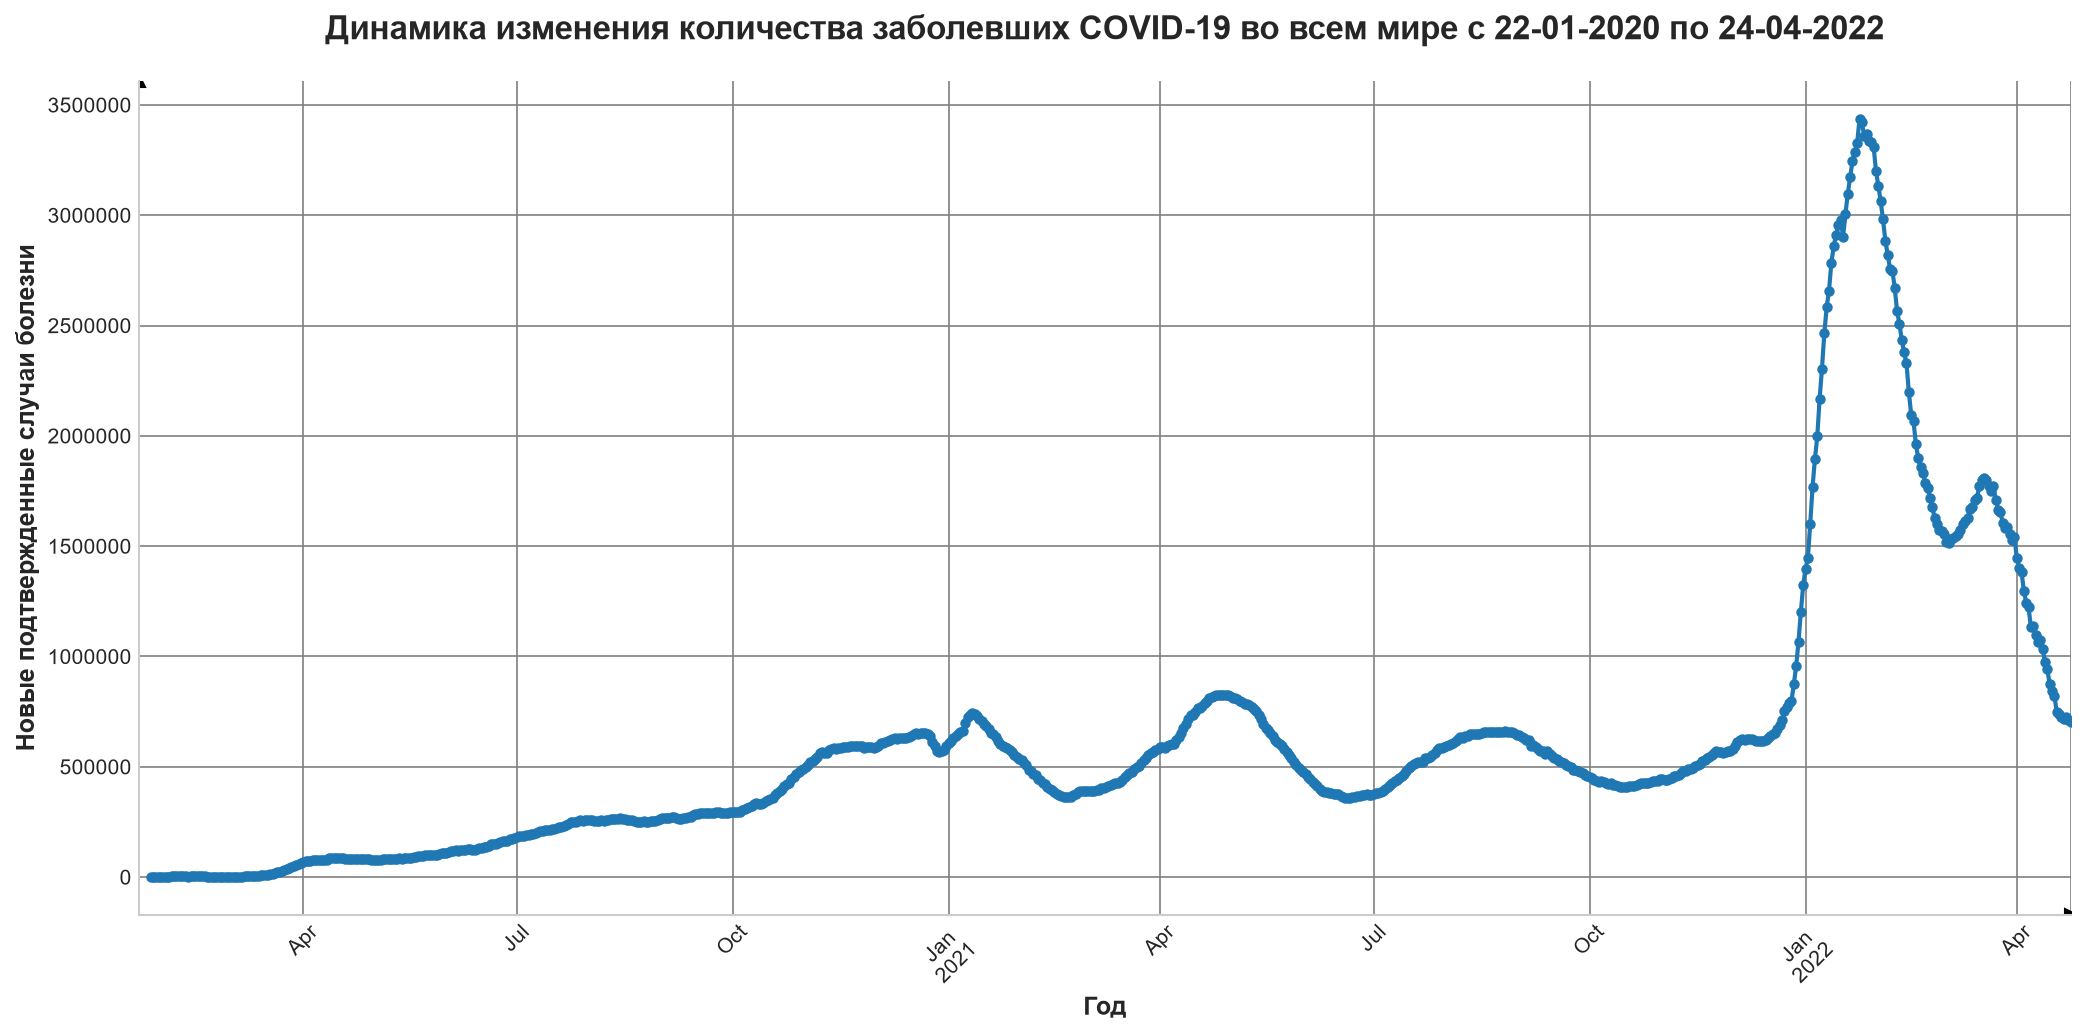
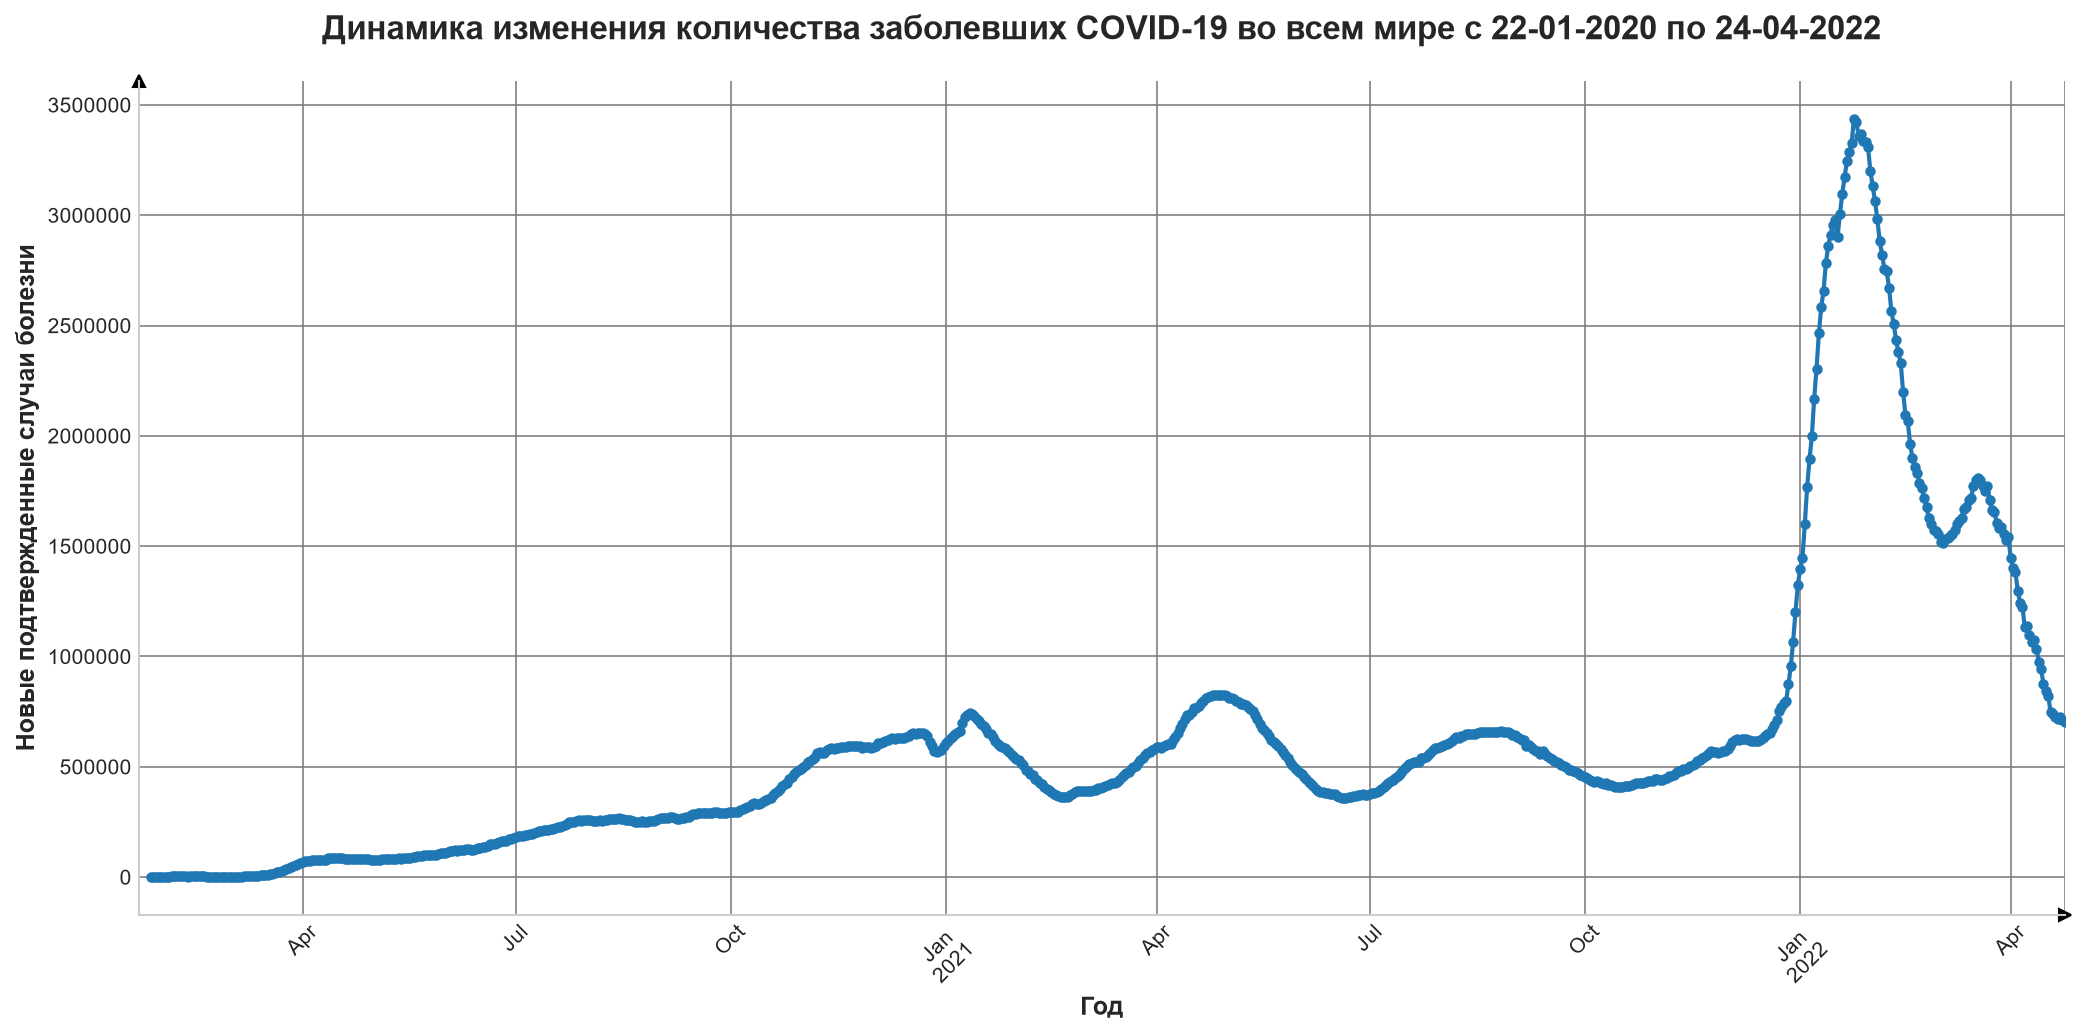
fix: path to data

diff --git a/task_1/task_1.py b/task_1/task_1.py
@@ -61,7 +61,7 @@ def get_linear_graph(df: pd.DataFrame):
     ax.plot(0, 1, '^k', transform=ax.transAxes, clip_on=False)
 
     plt.tight_layout()
-    plt.savefig(f'data/all_time_period_world_linear_chart.png', dpi=150, bbox_inches='tight')
+    plt.savefig(f'task_1/data/all_time_period_world_linear_chart.png', dpi=150, bbox_inches='tight')
     plt.show()
 
 def get_pie_chart_data(df: pd.DataFrame):
@@ -90,7 +90,7 @@ def get_pie_chart(df: pd.DataFrame):
     plt.title(f"Доля заболевших на каждом континенте за все время", fontweight="bold")
     plt.legend(title="Континенты", loc="center left", bbox_to_anchor=(1, 0, 0.5, 1))
     plt.tight_layout()
-    plt.savefig(f'data/all_time_continents_pie_chart.png', dpi=150, bbox_inches='tight')
+    plt.savefig(f'task_1/data/all_time_continents_pie_chart.png', dpi=150, bbox_inches='tight')
     plt.show()
 
 def get_bar_chart_data(df: pd.DataFrame):
@@ -146,7 +146,7 @@ def get_bar_chart(df: pd.DataFrame):
     plt.xticks(rotation=45, ha="right")
     plt.bar_label(bars, padding=3, fmt="%.0f")
     plt.tight_layout()
-    plt.savefig(f'data/top_15_countries_all_time_bar_chart.png', dpi=150, bbox_inches='tight')
+    plt.savefig(f'task_1/data/top_15_countries_all_time_bar_chart.png', dpi=150, bbox_inches='tight')
     plt.show()
 
 def get_violin_plot_data(df: pd.DataFrame):
@@ -161,7 +161,7 @@ def get_violin_plot(df: pd.DataFrame):
     sns.violinplot(data=df, x="Continent", y="log_daily", inner="quartile")
     plt.ylabel("log10(ежедневные случаи + 1)")
     plt.title("Распределение заболеваемости по континентам (логарифмическая шкала)")
-    plt.savefig(f'data/daily_data_continents_violin_plot.png', dpi=150, bbox_inches='tight')
+    plt.savefig(f'task_1/data/daily_data_continents_violin_plot.png', dpi=150, bbox_inches='tight')
     plt.show()
 
 def get_bad_data(df: pd.DataFrame):
@@ -318,7 +318,7 @@ def get_linear_compare(df_valid: pd.DataFrame, df_avg: pd.DataFrame, df_median: 
     ax.yaxis.set_major_formatter(plt.FormatStrFormatter("%.2f"))
     
     plt.tight_layout()
-    plt.savefig(f'data/compare_filling_missed_data_linear_chart.png', dpi=150, bbox_inches='tight')
+    plt.savefig(f'task_1/data/compare_filling_missed_data_linear_chart.png', dpi=150, bbox_inches='tight')
     plt.show()
     
 def get_difference_vector(df_valid: pd.DataFrame, df_restored: pd.DataFrame):
@@ -343,33 +343,33 @@ def get_box_plot(errors: pd.Series):
     plt.show()
     
 def main():
-    data_file = "DataSet1_4.csv"  # Путь к файлу с данными
+    data_file = "task_1/DataSet1_4.csv"  # Путь к файлу с данными
     separator = ","  # Разделитель данных в файле
 
     data = read_data(data_file, separator)
     data["Day"] = pd.to_datetime(data["Day"])
     
-    # linear_data = get_linear_chart_data(data)
-    # get_linear_graph(linear_data)
+    linear_data = get_linear_chart_data(data)
+    get_linear_graph(linear_data)
 
-    # pie_data = get_pie_chart_data(data)
-    # get_pie_chart(pie_data)
+    pie_data = get_pie_chart_data(data)
+    get_pie_chart(pie_data)
 
-    # bar_data = get_bar_chart_data(data)
-    # get_bar_chart(bar_data)
+    bar_data = get_bar_chart_data(data)
+    get_bar_chart(bar_data)
     
-    # violin_data = get_violin_plot_data(data)
-    # get_violin_plot(violin_data)
+    violin_data = get_violin_plot_data(data)
+    get_violin_plot(violin_data)
     
     bad_data = get_bad_data(data)
     valid_data = get_valid_data(data)
-    # average = fill_average(bad_data.copy())
-    # median = fill_median(bad_data.copy())
+    average = fill_average(bad_data.copy())
+    median = fill_median(bad_data.copy())
     average_of_3 = fill_average_of_3(bad_data.copy())
-    # llagrange = fill_lagrange(bad_data.copy())
-    # cube_spline = fill_cube_spline(bad_data.copy())
+    llagrange = fill_lagrange(bad_data.copy())
+    cube_spline = fill_cube_spline(bad_data.copy())
 
-    # get_linear_compare(valid_data, average, median, average_of_3, llagrange, cube_spline)    
+    get_linear_compare(valid_data, average, median, average_of_3, llagrange, cube_spline)    
     
     difference_vector = get_difference_vector(valid_data, average_of_3)
     print(sigma_method(difference_vector, 3))
